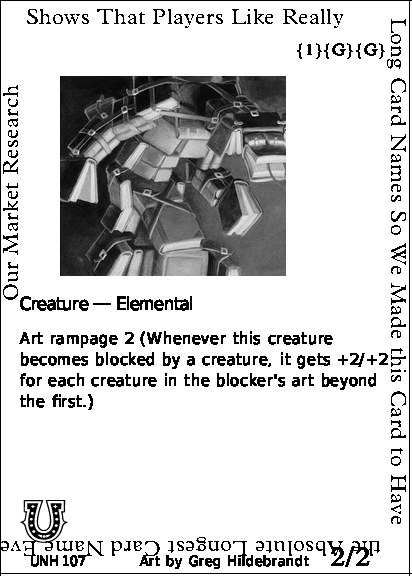
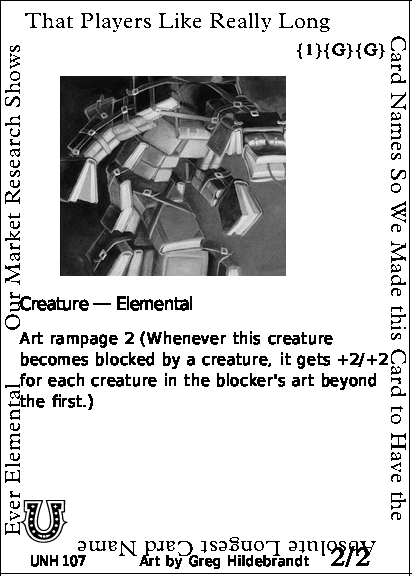
Enhance BorderPathLayout and draw_text_around_border function for improved text wrapping along card borders

diff --git a/oracle_escpos/src/render.rs b/oracle_escpos/src/render.rs
@@ -28,7 +28,7 @@ impl BorderWrapConfig {
     }
 }
 
-/// Renders a string wrapped along all four perimeter paths (Left, Top, Right, Bottom).
+/// Renders a string wrapped counter-clockwise along perimeter paths (Left Top -> Top -> Right -> Bottom -> Left Bottom).
 pub fn draw_text_around_border(
     image: &mut RgbImage,
     text: &str,
@@ -43,14 +43,18 @@ pub fn draw_text_around_border(
     let mut scaler = scale_context.builder(font).size(font_size).build();
     let renderer = Render::new(&[Source::Outline]);
 
-    // Segment physical line lengths along perimeter boundaries
+    // Segment physical line lengths: Left Top -> Top -> Right -> Bottom -> Left Return
     let left_height = (path.left_side_bottom_y - path.left_side_top_y) as f32;
     let top_width = (path.top_end_x - path.top_start_x) as f32;
     let right_height = (path.right_side_bottom_y - path.right_side_top_y) as f32;
+    let bottom_width = (path.bottom_x_start - path.bottom_x_end) as f32;
+    let left_return_height = (path.left_side_return_bottom_y - path.left_side_return_top_y) as f32;
 
     let corner1 = left_height;
-    let corner2 = left_height + top_width;
-    let corner3 = left_height + top_width + right_height;
+    let corner2 = corner1 + top_width;
+    let corner3 = corner2 + right_height;
+    let corner4 = corner3 + bottom_width;
+    let max_perimeter = corner4 + left_return_height;
 
     struct GlyphItem {
         id: swash::GlyphId,
@@ -97,7 +101,7 @@ pub fn draw_text_around_border(
     let mut current_dist = 0.0;
 
     for (i, word) in words.iter().enumerate() {
-        // Corner wrap transitions
+        // Corner wrap transitions - leap over corners if word exceeds remaining segment space
         if current_dist < corner1 && (current_dist + word.width) > corner1 {
             current_dist = corner1; // Left -> Top
         } else if current_dist >= corner1
@@ -110,33 +114,48 @@ pub fn draw_text_around_border(
             && (current_dist + word.width) > corner3
         {
             current_dist = corner3; // Right -> Bottom
+        } else if current_dist >= corner3
+            && current_dist < corner4
+            && (current_dist + word.width) > corner4
+        {
+            current_dist = corner4; // Bottom -> Left Return
         }
 
         for glyph in &word.glyphs {
+            if current_dist >= max_perimeter {
+                break;
+            }
+
             if let Some(glyph_image) = renderer.render(&mut scaler, glyph.id) {
                 if current_dist < corner1 {
-                    // Left border (270 deg)
+                    // 1. Initial Left border (270 deg / bottom-to-top)
                     let y = path.left_side_bottom_y - current_dist as i32;
                     let x = path.left_x;
                     render_glyph_rotated_270(image, &glyph_image, x, y);
                 } else if current_dist < corner2 {
-                    // Top border (0 deg)
+                    // 2. Top border (0 deg / normal left-to-right)
                     let progress = current_dist - corner1;
                     let x = path.top_start_x + progress as i32;
                     let y = path.top_y;
                     render_glyph_normal(image, &glyph_image, x, y);
                 } else if current_dist < corner3 {
-                    // Right border (90 deg)
+                    // 3. Right border (90 deg / top-to-bottom)
                     let progress = current_dist - corner2;
                     let x = path.right_x;
                     let y = path.right_side_top_y + progress as i32;
                     render_glyph_rotated_90(image, &glyph_image, x, y);
-                } else {
-                    // Bottom border: right-to-left upside-down (180 deg)
+                } else if current_dist < corner4 {
+                    // 4. Bottom border (180 deg / right-to-left flipped)
                     let progress = current_dist - corner3;
                     let x = path.bottom_x_start - progress as i32;
                     let y = path.bottom_y;
                     render_glyph_rotated_180(image, &glyph_image, x, y);
+                } else {
+                    // 5. Left border return loop (270 deg / bottom-to-top)
+                    let progress = current_dist - corner4;
+                    let y = path.left_side_return_bottom_y - progress as i32;
+                    let x = path.left_x;
+                    render_glyph_rotated_270(image, &glyph_image, x, y);
                 }
             }
             current_dist += glyph.advance + letter_spacing;
@@ -146,6 +165,7 @@ pub fn draw_text_around_border(
             && current_dist != corner1
             && current_dist != corner2
             && current_dist != corner3
+            && current_dist != corner4
         {
             current_dist += space_width;
         }

diff --git a/oracle_escpos/src/layout.rs b/oracle_escpos/src/layout.rs
@@ -91,25 +91,34 @@ pub struct BorderPathLayout {
     pub right_side_bottom_y: i32,
     /// Starting X coordinate on the right side where text begins wrapping leftward along the bottom border.
     pub bottom_x_start: i32,
+    /// Ending X coordinate where text stops on the bottom border before returning up the left edge.
+    pub bottom_x_end: i32,
     /// Y coordinate baseline for 180-degree rotated text along the bottom border.
     pub bottom_y: i32,
+    /// Y coordinate baseline for starting the return loop back up the left border.
+    pub left_side_return_bottom_y: i32,
+    /// Y coordinate baseline for ending the return loop up the left border.
+    pub left_side_return_top_y: i32,
 }
 
 impl Default for BorderPathLayout {
     /// Provides baseline coordinate presets for standard card layout dimensions.
     fn default() -> Self {
         Self {
-            left_x: 18,
-            top_y: 24,
+            left_x: 20,
+            top_y: 28,
             right_x: 390,
-            top_start_x: 26,
+            top_start_x: 25,
             top_end_x: 380,
-            left_side_bottom_y: 300,
-            left_side_top_y: 18,
-            right_side_top_y: 18,
-            right_side_bottom_y: 560,
-            bottom_x_start: 380,
+            left_side_bottom_y: 330,
+            left_side_top_y: 35,
+            right_side_top_y: 35,
+            right_side_bottom_y: 535,
+            bottom_x_start: 375,
+            bottom_x_end: 25,
             bottom_y: 540,
+            left_side_return_bottom_y: 535,
+            left_side_return_top_y: 360,
         }
     }
 }
